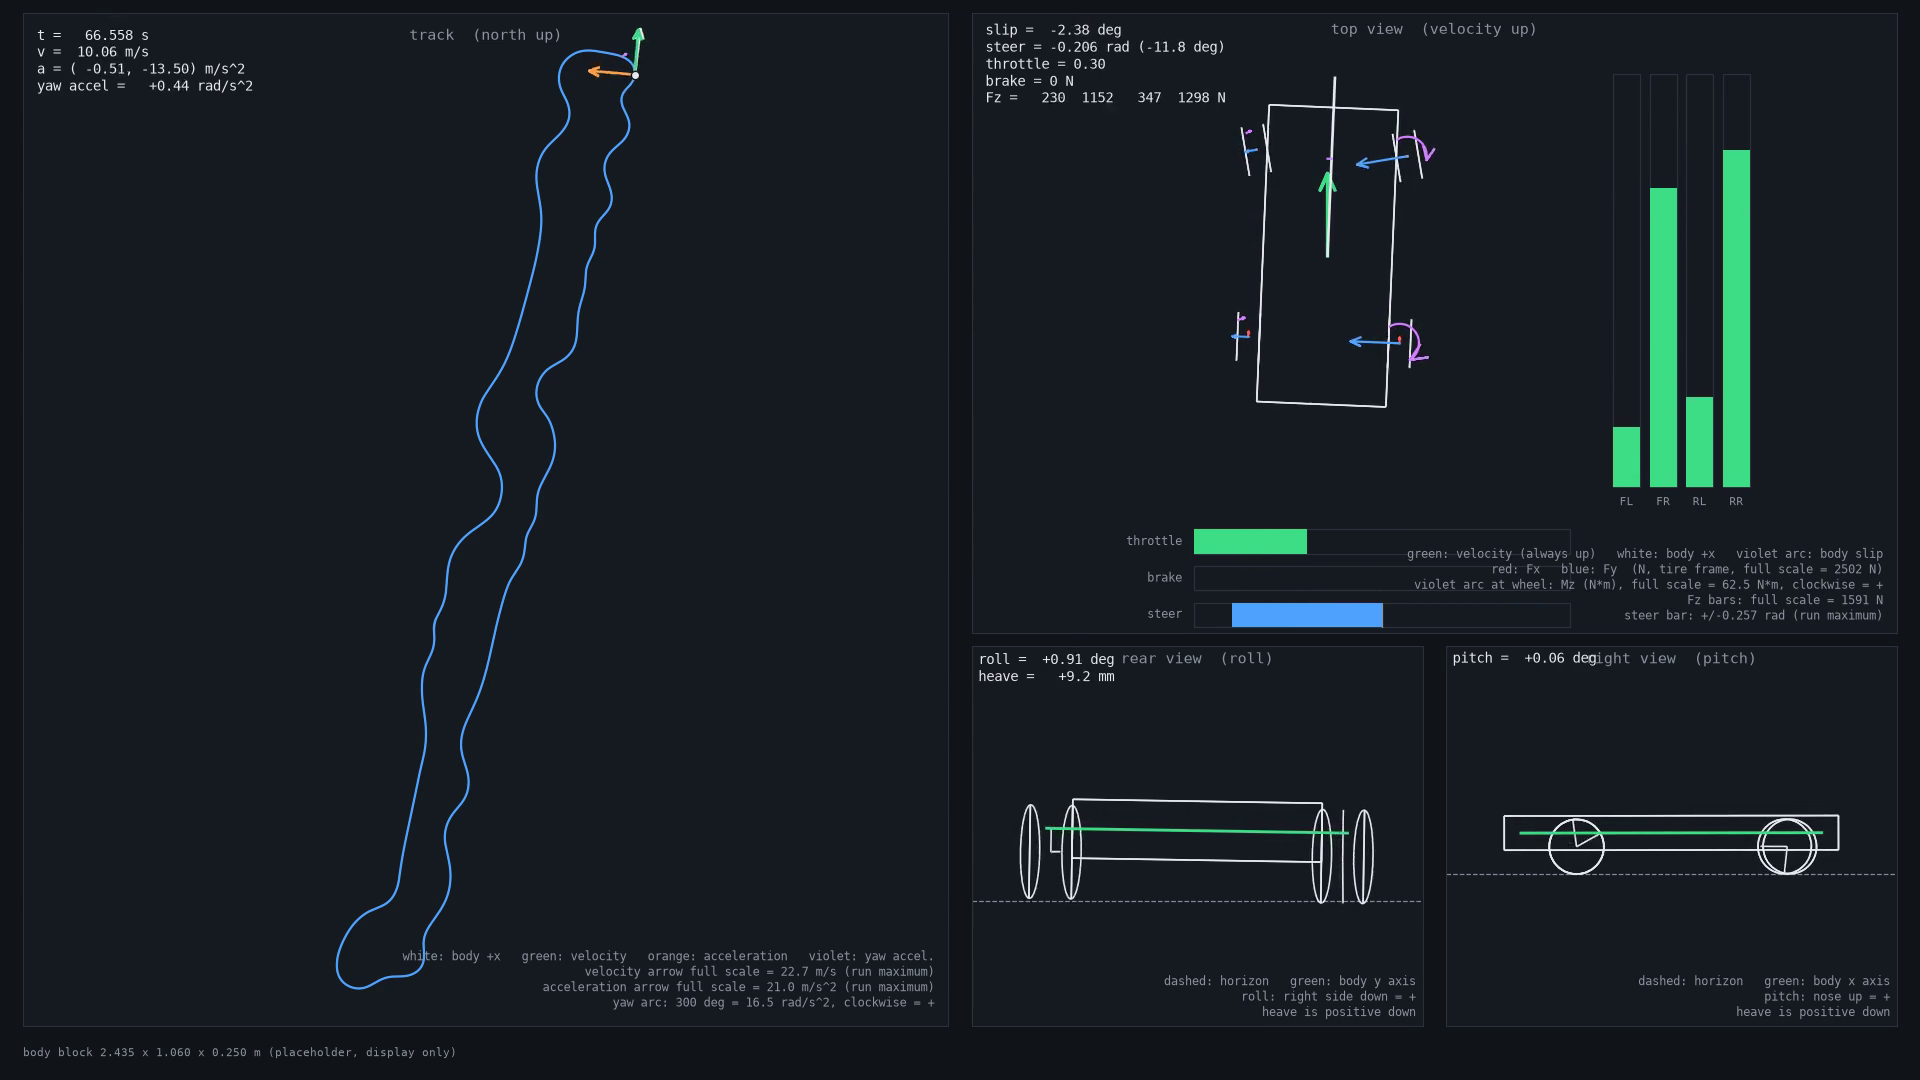
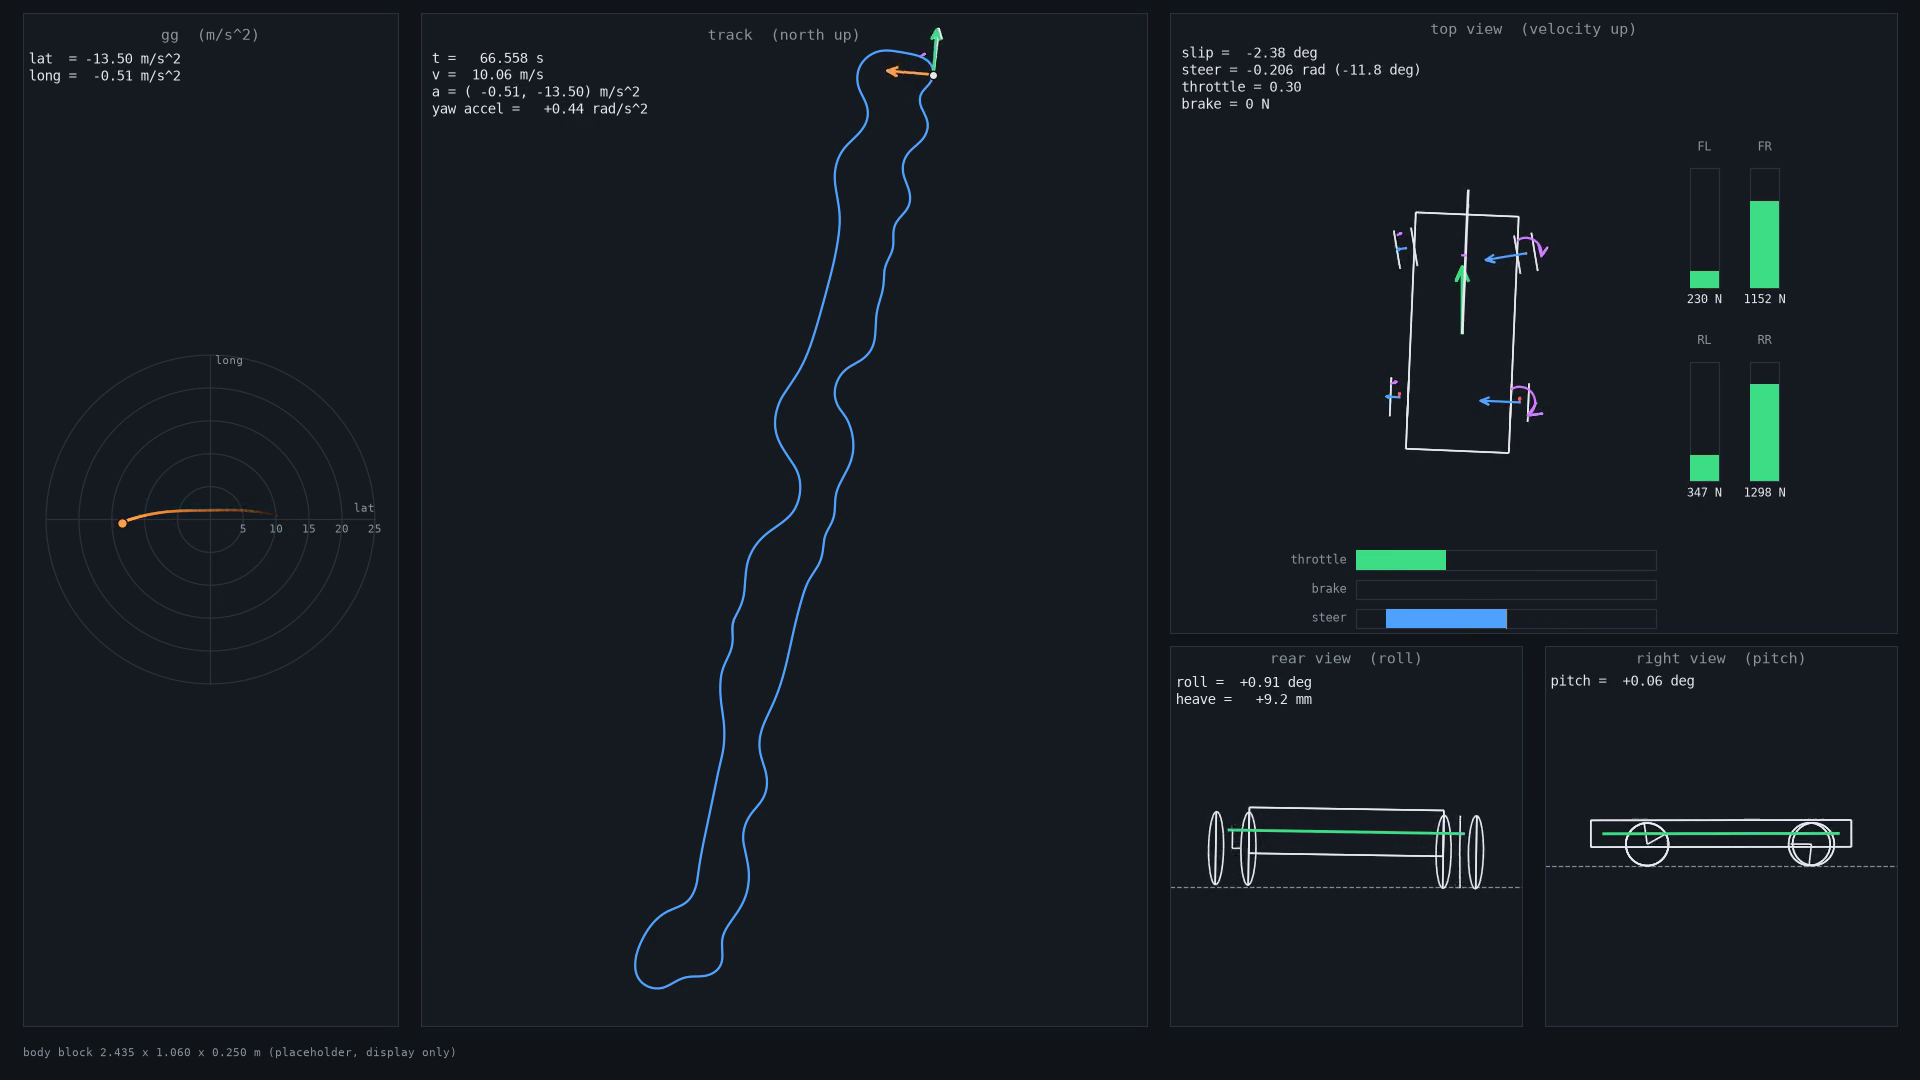
docs: record the final-layout lap render and refresh the stills

diff --git a/docs/validation/iem24-murphy/animation-export.md b/docs/validation/iem24-murphy/animation-export.md
@@ -1,6 +1,6 @@
 # IEM24 Murphy lap animation export
 
-This note records one real export of a 14-DoF lap of the IEM24 endurance track, made on 2026-10-16 with `tools/anim/export_animation.py`. It states what was measured, what was only estimated, and what the video can and cannot be used for.
+This note records one real export of a 14-DoF lap of the IEM24 endurance track, made on 2026-10-16 (re-rendered the same day with the final layout) with `tools/anim/export_animation.py`. It states what was measured, what was only estimated, and what the video can and cannot be used for.
 
 ## Result
 
@@ -13,26 +13,33 @@ This note records one real export of a 14-DoF lap of the IEM24 endurance track, 
 | Frames | 7 988 at 120 fps | `ffprobe -count_frames` |
 | Video duration | 66.567 s | `ffprobe` |
 | Codec, pixel format | H.264 `yuv420p`, 1920 x 1080, `r_frame_rate=120/1` | `ffprobe` |
-| File size | 15.6 MB (15 606 104 bytes) | measured |
-| **Render wall time** | **644.2 s** | measured by the CLI |
-| **Render / real-time ratio** | **9.68x** (644.2 s / 66.57 s) | measured |
-| Per-frame time | 80.6 ms | measured |
-| Rendered frames per wall second | 12.4 | measured |
+| File size | 14.1 MB (14 050 939 bytes) | measured |
+| **Render wall time** | **411.8 s** | measured by the CLI |
+| **Render / real-time ratio** | **6.19x** (411.8 s / 66.57 s) | measured |
+| Per-frame time | 51.6 ms | measured |
+| Rendered frames per wall second | 19.4 | measured |
 | Machine | Apple M2, 8 cores, 24 GB, macOS, Python 3.13, matplotlib 3.11.2, ffmpeg 8.1.2 | `sysctl`, `ffmpeg -version` |
 
-The frame count equals the dry-run count (`floor(66.563 * 120) + 1 = 7 988`), and the video duration equals frames / 120 to well within 0.01 s. All four windows were shown, and the export printed no warning.
+The frame count equals the dry-run count (`floor(66.563 * 120) + 1 = 7 988`), and the video duration equals frames / 120 to well within 0.01 s. All five windows (GG, track, rear, right, top) were shown, and the export printed no warning.
 
-The size estimate in the dry run was 41.4 MB. It is a rough model (0.02 bit per pixel per frame) and it was **wrong by a factor of 2.7**: the measured size is 15.6 MB. The estimate should be treated as an upper bound until the constant is refitted.
+The size estimate in the dry run was 41.4 MB. It is a rough model (0.02 bit per pixel per frame) and it was **wrong by a factor of 2.9**: the measured size is 14.1 MB. The estimate should be treated as an upper bound until the constant is refitted.
 
-## Layout change after this export
+## Layout history
 
-The export above was rendered with the first layout. A later change added the GG diagram, arranged the Fz bars as a 2 x 2 grid with a value under each bar, and removed the small explanatory text (full scales moved to the command-line output). The 9.68x ratio and the stills belong to the first layout. A 0.5 s excerpt of the new layout (61 frames) rendered at 6.72x (56 ms per frame) including start-up, which is a short sample and not a replacement for a full-lap measurement; the full lap has not been re-rendered.
+This export has been rendered twice from the same record (`run_record.npz`, same 7 988 frames).
+
+| Render | Layout | Wall time | Ratio | Per frame | File size |
+|---|---|---|---|---|---|
+| First | track, rear, right, top; grey legend text; Fz bars in one row | 644.2 s | 9.68x | 80.6 ms | 15.6 MB |
+| **Final (this note's table)** | GG column added at the left; Fz bars as a 2 x 2 grid with a value under each; legend text removed (full scales are printed by the CLI) | 411.8 s | 6.19x | 51.6 ms | 14.1 MB |
+
+Both are single measurements on one machine, taken at different times, so run-to-run variation is included in the difference. The final render is faster although it draws one more window; this note does not claim a cause, because the cause was not measured. The stills below were regenerated from the final video.
 
 ## Render cost
 
-The earlier plan predicted 4.30x from a 60-frame prototype and expected 4.3-6x for a full export. The real export is **9.68x**, so the plan figure was optimistic by a factor of 2.3. It is below the 12x threshold at which the plan calls for a `--frame-chunk` multiprocessing follow-up, so no follow-up was started. A full lap of about 66 s of simulated time takes about 10.7 minutes on this machine.
+The earlier plan predicted 4.30x from a 60-frame prototype and expected 4.3-6x for a full export. The first real export was 9.68x and the final layout is **6.19x**, inside the plan's expected range. Both are below the 12x threshold at which the plan calls for a `--frame-chunk` multiprocessing follow-up, so no follow-up was started. A full lap of about 66 s of simulated time takes about 6.9 minutes on this machine with the final layout.
 
-Where the 80.6 ms per frame goes, measured on a 2 s excerpt of a 20 s record with `perf_counter` (a separate profile, not the full lap, and the split is approximate):
+Where the time went in the **first layout** (80.6 ms per frame), measured on a 2 s excerpt of a 20 s record with `perf_counter`. This profile was not repeated for the final layout, so it does not describe the 51.6 ms figure; it is a separate profile, not the full lap, and the split is approximate:
 
 | Part | Time per frame |
 |---|---|
@@ -58,7 +65,7 @@ Each still is a frame decoded from the encoded video, so it shows what a viewer 
 | [Peak lateral acceleration](animation-export/still_peak_ay.png) | 2 413 | 20.108 s | largest \|a_y\|, 17.20 m/s^2 |
 | [Lap end](animation-export/still_lap_end.png) | 7 987 | 66.558 s | last frame |
 
-These frames were checked numerically (size, and the share of non-background pixels in each half of the image). **The author of this note could not view the images**, so no claim is made here about how they look. Open them before using the video in a report.
+These frames were checked numerically (size 1920 x 1080, and a non-background pixel share of 1.4-5.8 % in each fifth of the image width, so no region is empty). Separately, on a frame of the same layout the text boxes were checked for overlap and for crossing by drawn lines at 1920 x 1080 and 1280 x 720, with none found. **The author of this note could not view the images**, so no claim is made here about how they look. Open them before using the video in a report.
 
 ## Caveats
 
@@ -68,7 +75,7 @@ These frames were checked numerically (size, and the share of non-background pix
 4. **The body is a placeholder block.** Length 2.435 m, width 1.060 m, height 0.250 m, with four cylinder wheels. It is a display asset and carries no information about the real car. An STL file changes the picture only and never a simulation number.
 5. **Wheel spin is a display effect**, integrated from the recorded wheel speeds.
 6. **Float32 record.** Values are rounded to float32, and the readouts show two decimals.
-7. **The encoded file is not bit-reproducible across machines.** The artist data is deterministic, but matplotlib text rendering and x264 builds can differ. The video is not committed (`videos/` is git-ignored; it was saved as `videos/iem24_14dof_lap.mp4`); its SHA-256 begins `5ce623bd804df2d9` for this machine and build.
+7. **The encoded file is not bit-reproducible across machines.** The artist data is deterministic, but matplotlib text rendering and x264 builds can differ. The video is not committed (`videos/` is git-ignored; it was saved as `videos/iem24_14dof_lap.mp4`); its SHA-256 begins `f6e96b6babb57ebf` for this machine and build.
 
 ## Reproduce
 

diff --git a/docs/dev/animation-export.md b/docs/dev/animation-export.md
@@ -79,7 +79,7 @@ The body is a placeholder block (length = wheelbase + 0.9 m, width = track - whe
 
 Rendering is by matplotlib Agg with artist updates, so no axes are rebuilt per frame. The CLI prints the render time and the render-to-real-time ratio after each run.
 
-Measured on an Apple M2 for a full 14-DoF lap at 1920 x 1080: **9.68x real time** (80.6 ms per frame, 644 s for a 66.57 s lap), producing a 15.6 MB file. Most of the time is Agg drawing the axes; the data updates take under 2 ms per frame. Details and the caveats are in [the validation note](../validation/iem24-murphy/animation-export.md). The dry run prints only a rough size estimate, marked "not measured"; on that lap it overestimated the size by 2.7x.
+Measured on an Apple M2 for a full 14-DoF lap at 1920 x 1080: **6.19x real time** (51.6 ms per frame, 412 s for a 66.57 s lap), producing a 14.1 MB file. The first layout measured 9.68x. Most of the time is Agg drawing the axes; the data updates take under 2 ms per frame. Details and the caveats are in [the validation note](../validation/iem24-murphy/animation-export.md). The dry run prints only a rough size estimate, marked "not measured"; on that lap it overestimated the size by 2.7x.
 
 To go faster: lower `--width`/`--height`, use `--time-range`, or render with `--png-sequence`. Multiprocess chunking (`--frame-chunk`) is not implemented, because the measured ratio is under the 12x threshold set in the plan.
 

diff --git a/docs/superpowers/plans/2026-10-16-animation-exporter.md b/docs/superpowers/plans/2026-10-16-animation-exporter.md
@@ -935,3 +935,6 @@ scale legends printed on the frames.
   readouts, bar names and values remain. The footer still names hidden windows and
   warnings. The APPROXIMATE label of quasi-static attitude is now in the window title. The
   arrow and bar full scales moved to the command-line output (`full scales (run maxima ...)`).
+- **Measured cost of the final layout.** The full 14DoF lap re-rendered at 6.19x real time
+  (411.8 s, 51.6 ms per frame, 14.1 MB). The 9.68x figures quoted earlier in this plan are
+  the first layout.
